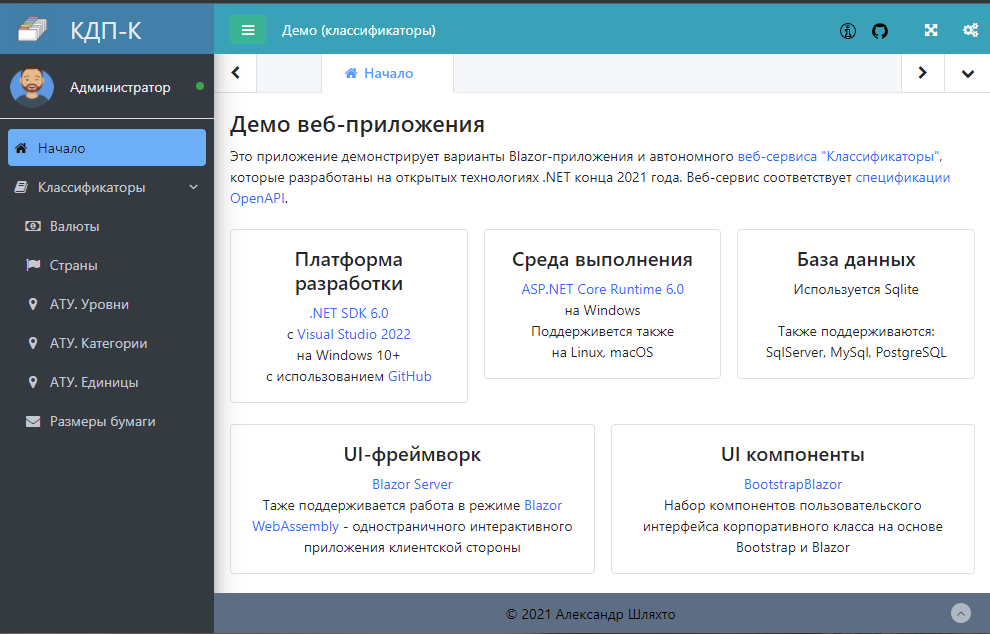
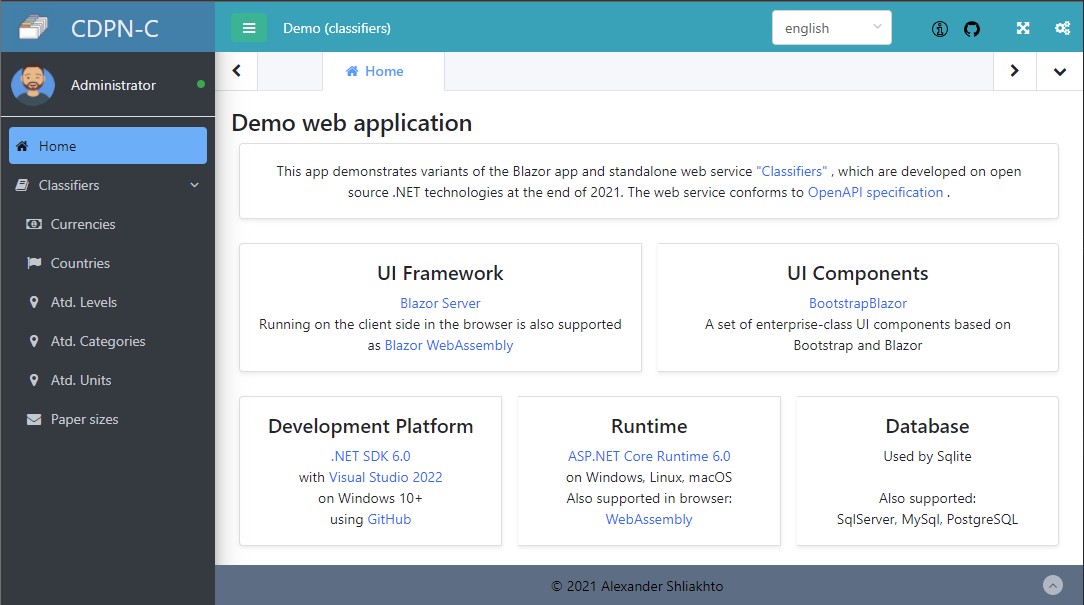
211116-0922 Localized README

diff --git a/README.md b/README.md
@@ -1,24 +1,26 @@
+Language: [English](README.md) | [Русский](README.ru.md) | [Українська](README.uk.md)
+
 # CDPN Classifiers
 
-## Общие сведения 
+## General information 
 
-Общие классификаторы для комплекса CDPN:
+General classifiers for the complex CDPN:
 
-- Валюты согласно ISO 4217
-- Страны согласно ISO 3166-1
-- Уровни АТУ
-- Категории АТУ
-- Единицы АТУ (уровни 0 и 1)
-- Размеры бумаги и конвертов согласно ISO 216 и ISO 269
+- Currencies according to ISO 4217
+- Countries according to ISO 3166-1
+- ATD levels
+- ATD categories
+- ATD units (levels 0 and 1)
+- Sizes of paper and envelopes according to ISO 216 и ISO 269
 
-Данные классификаторов на украинском языке.
+Classifier data in Ukrainian.
 
-АТУ - административно-территориальное устройство
+ATD - administrative-territorial divisions
 
-## Демо
+## Demo
 
 - [Classifiers API](https://classifiers-api.infdev.com.ua/swagger/)
-- [Classifiers UI. Размещение на сервере](https://classifiers-ui.infdev.com.ua/)
-- [Classifiers UI WASM. Размещение на клиенте](https://classifiers-ui-wasm.infdev.com.ua/)
+- [Classifiers UI. Server hosting](https://classifiers-ui.infdev.com.ua/)
+- [Classifiers UI WASM. Client (browser) hosting](https://classifiers-ui-wasm.infdev.com.ua/)
 
-![КДП-К](./assets/images/cdpn-c.png)
+![CDPN-C](./assets/images/cdpn-c.png)

diff --git a/README.ru.md b/README.ru.md
@@ -1,0 +1,26 @@
+Язык: [English](README.md) | [Русский](README.ru.md) | [Українська](README.uk.md)
+
+# КДП-К. Классификаторы
+
+## Общие сведения 
+
+Общие классификаторы для комплекса КДП-К:
+
+- Валюты согласно ISO 4217
+- Страны согласно ISO 3166-1
+- Уровни АТУ
+- Категории АТУ
+- Единицы АТУ (уровни 0 и 1)
+- Размеры бумаги и конвертов согласно ISO 216 и ISO 269
+
+Данные классификаторов на украинском языке.
+
+АТУ - административно-территориальное устройство
+
+## Демо
+
+- [Classifiers API](https://classifiers-api.infdev.com.ua/swagger/)
+- [Classifiers UI. Размещение на сервере](https://classifiers-ui.infdev.com.ua/)
+- [Classifiers UI WASM. Размещение на клиенте](https://classifiers-ui-wasm.infdev.com.ua/)
+
+![КДП-К](./assets/images/cdpn-c.ru.png)

diff --git a/README.uk.md b/README.uk.md
@@ -1,0 +1,26 @@
+Мова: [English](README.md) | [Русский](README.ru.md) | [Українська](README.uk.md)
+
+# КДП-К. Класифікатори
+
+## Загальні відомості 
+
+Загальні класифікатори для комплексу КДП-К:
+
+- Валюти згідно ISO 4217
+- Країни згідно ISO 3166-1
+- Рівні АТУ
+- Категорії АТУ
+- Одиниці АТУ (рівні 0 та 1)
+- Розміри паперу та конвертів відповідно до ISO 216 та ISO 269
+
+Дані класифікаторів українською мовою.
+
+АТУ - адміністративно-територіальний устрій
+
+## Демо
+
+- [Classifiers API](https://classifiers-api.infdev.com.ua/swagger/)
+- [Classifiers UI. Розміщення на сервері](https://classifiers-ui.infdev.com.ua/)
+- [Classifiers UI WASM. Розміщення на клієнті](https://classifiers-ui-wasm.infdev.com.ua/)
+
+![КДП-К](./assets/images/cdpn-c.uk.png)
